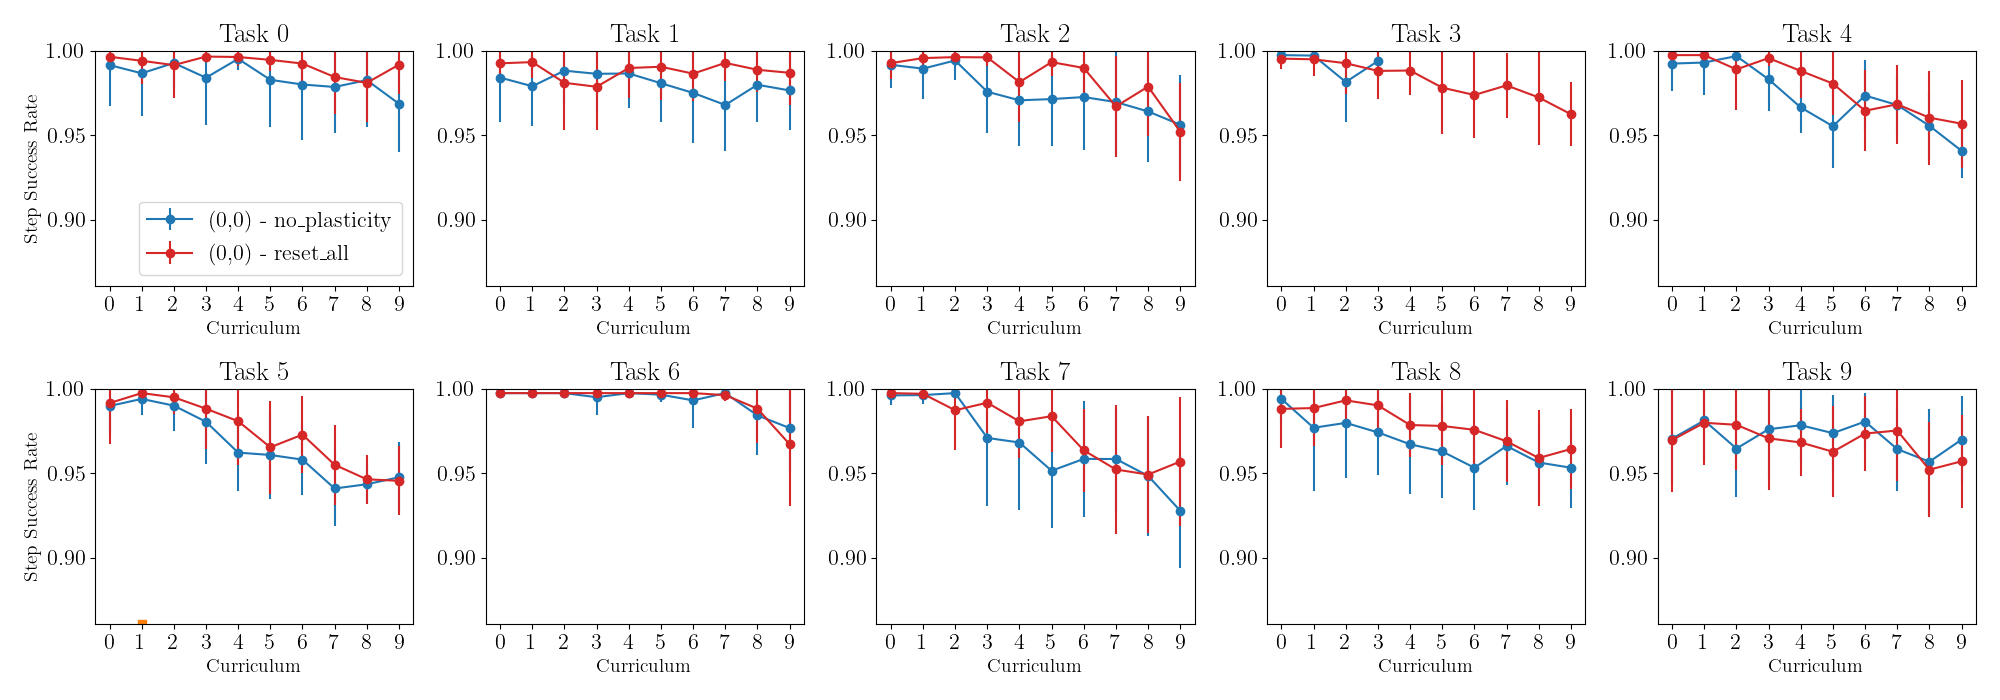
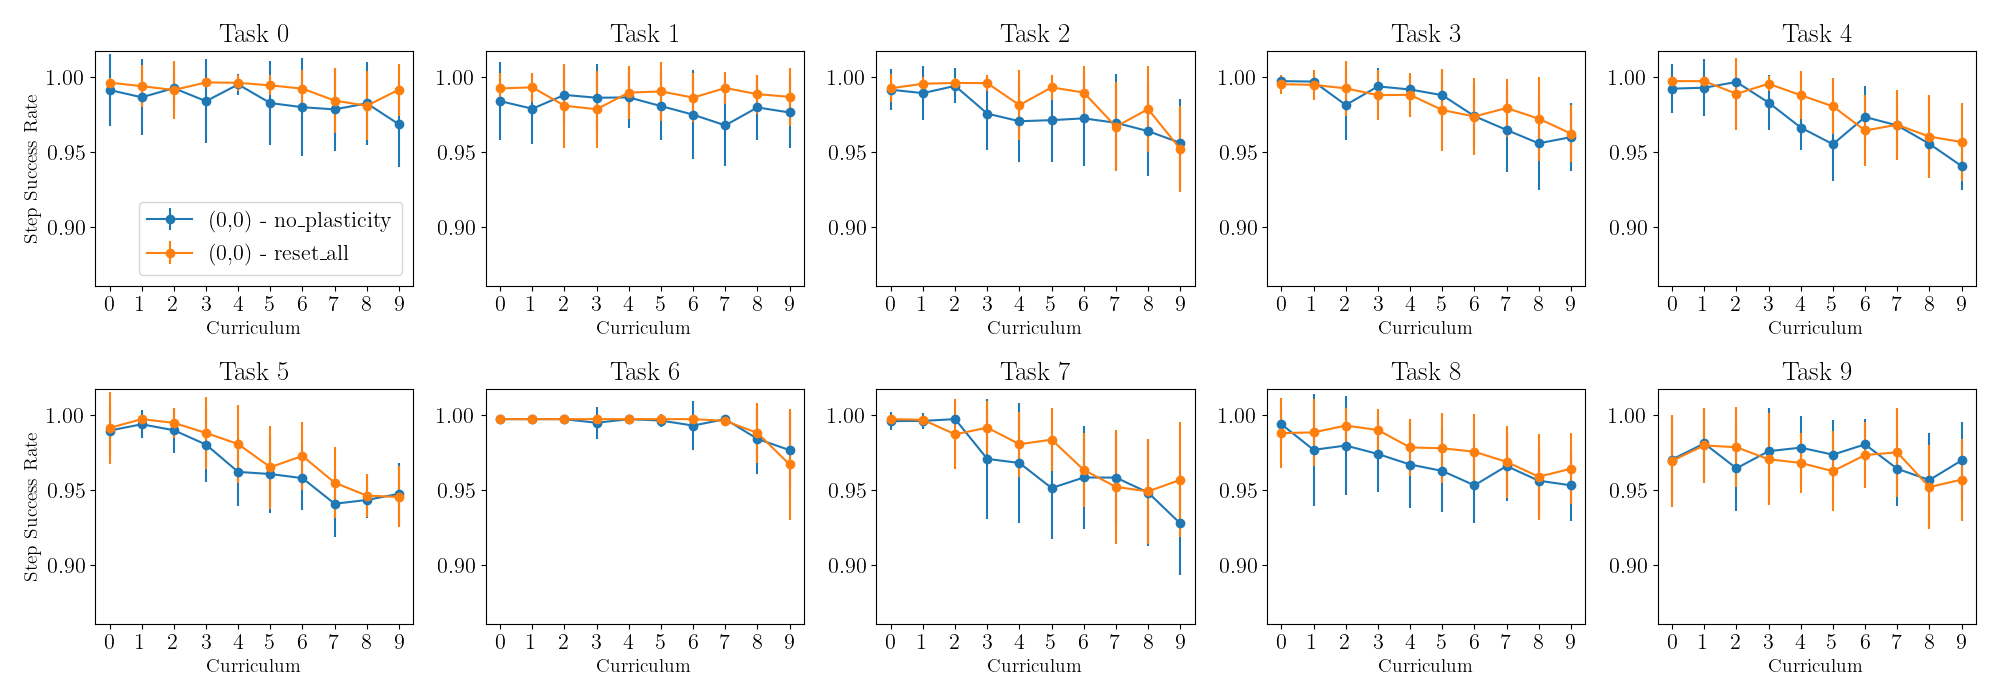
some changes

diff --git a/plot_eval_data.py b/plot_eval_data.py
@@ -18,11 +18,11 @@ plt.rcParams.update({'font.size': 16})
 column_to_plot = 'curriculum_metric' # 'curriculum_metric'  # Change to 'timing_met', 'heading_err', 'dist_err', or 'curriculum_metric' as needed
 
 # Number of behavior curricula and curricula per behavior curriculum
-num_behavior_curricula = 10
+num_behavior_curricula = 11
 num_curricula = 10
 
 # Prepare subplots
-fig, axes = plt.subplots(nrows=2, ncols=5, figsize=(20, 7))
+fig, axes = plt.subplots(nrows=3, ncols=5, figsize=(20, 10))
 
 # Initialize lists to store the calculated mean and std values for global y-axis scaling
 all_means = []
@@ -107,10 +107,10 @@ for behavior_curriculum in range(num_behavior_curricula):
 
         all_means_for_task[i] = means_none_nan
 
-        ax.errorbar(curriculum_to_plot, means_none_nan, yerr=stds_none_nan, fmt='-o', label=f'(0,0) - {folder_labels[i]}')
-        ax.errorbar(curriculum_to_plot, means_timing_nan, yerr=stds_timing_nan, fmt='-x', label=f'(1,0) - {folder_labels[i]}')
-        # ax.errorbar(curriculum_to_plot, means_heading_nan, yerr=stds_heading_nan, fmt='-s') #,  label='(0,1)')
-        # ax.errorbar(curriculum_to_plot, means_both_nan, yerr=stds_both_nan, fmt='-d') #, label='(1,1)')
+        # ax.errorbar(curriculum_to_plot, means_none_nan, yerr=stds_none_nan, fmt='-o', label=f'(0,0) - {folder_labels[i]}')
+        # ax.errorbar(curriculum_to_plot, means_timing_nan, yerr=stds_timing_nan, fmt='-x', label=f'(1,0) - {folder_labels[i]}')
+        ax.errorbar(curriculum_to_plot, means_heading_nan, yerr=stds_heading_nan, fmt='-s') #,  label='(0,1)')
+        ax.errorbar(curriculum_to_plot, means_both_nan, yerr=stds_both_nan, fmt='-d') #, label='(1,1)')
 
     # 0 = no_plasticity
     differences = [a - b for a, b in zip(all_means_for_task[1], all_means_for_task[0])]
